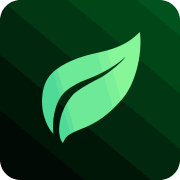
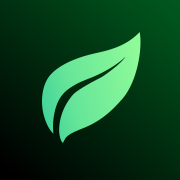
Новые иконки MeGarden (полноцвет, без квантования), SW_V5

diff --git a/sw.js b/sw.js
@@ -1,6 +1,6 @@
 // MeGarden PWA service worker: офлайн-оболочка (cache-first).
 // Версию поднимать при каждом изменении index.html (иначе клиенты держат старую).
-var CACHE='MG3_SW_V4';
+var CACHE='MG3_SW_V5';
 var SHELL=['./','index.html','manifest.webmanifest','icon-192.png','icon-512.png','apple-touch-icon.png'];
 self.addEventListener('install',function(e){
   e.waitUntil(caches.open(CACHE).then(function(c){return c.addAll(SHELL);})  .then(function(){return self.skipWaiting();}));
